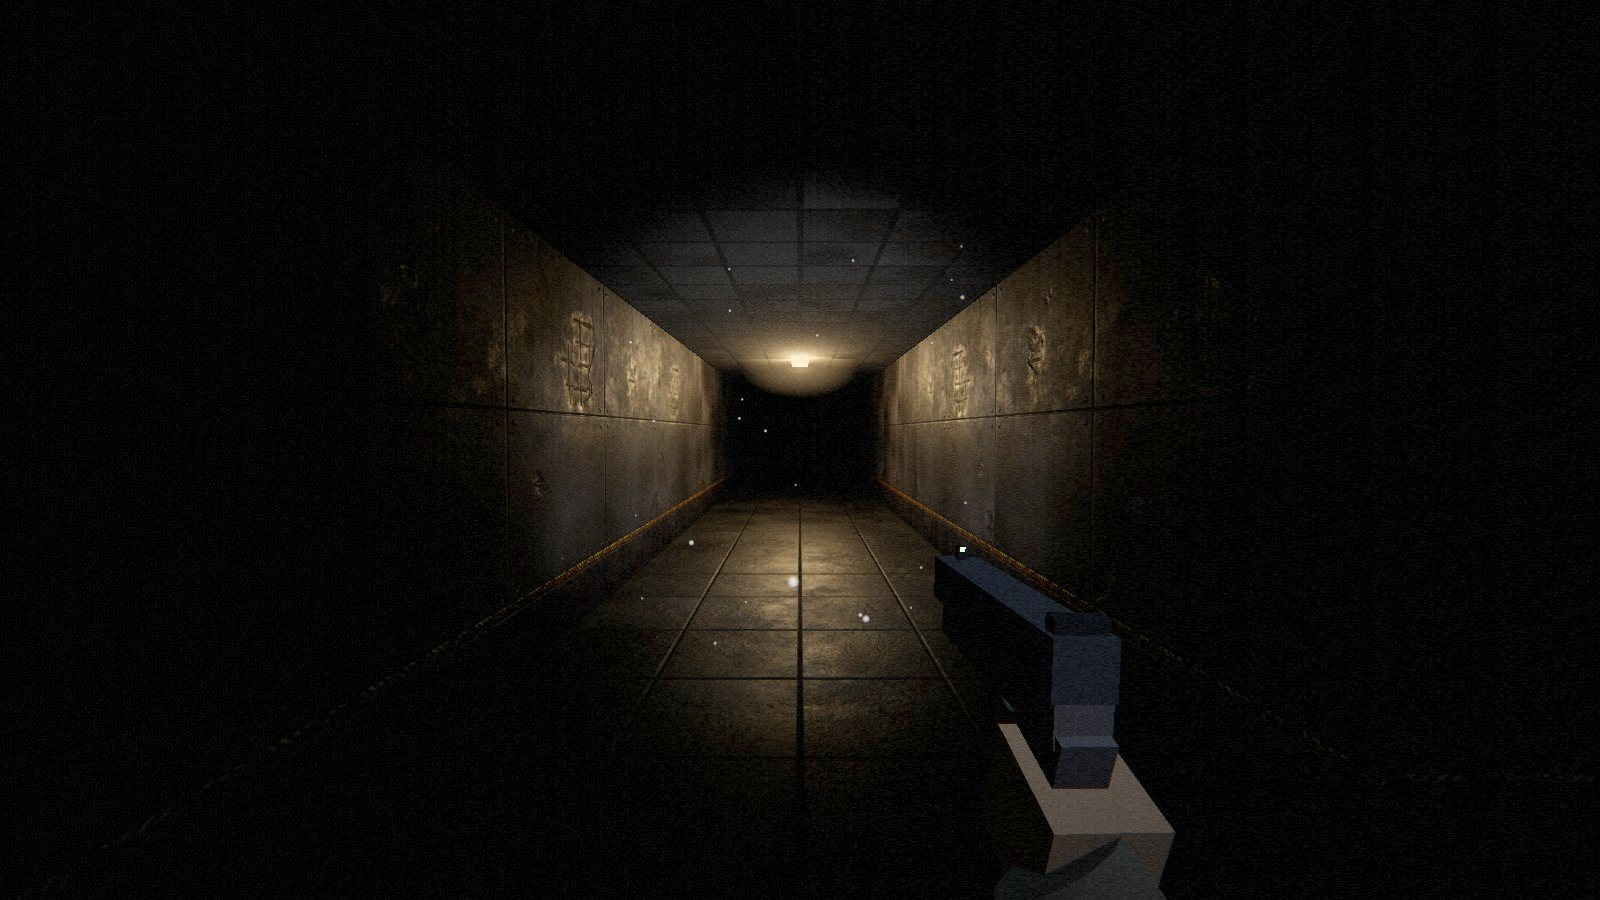
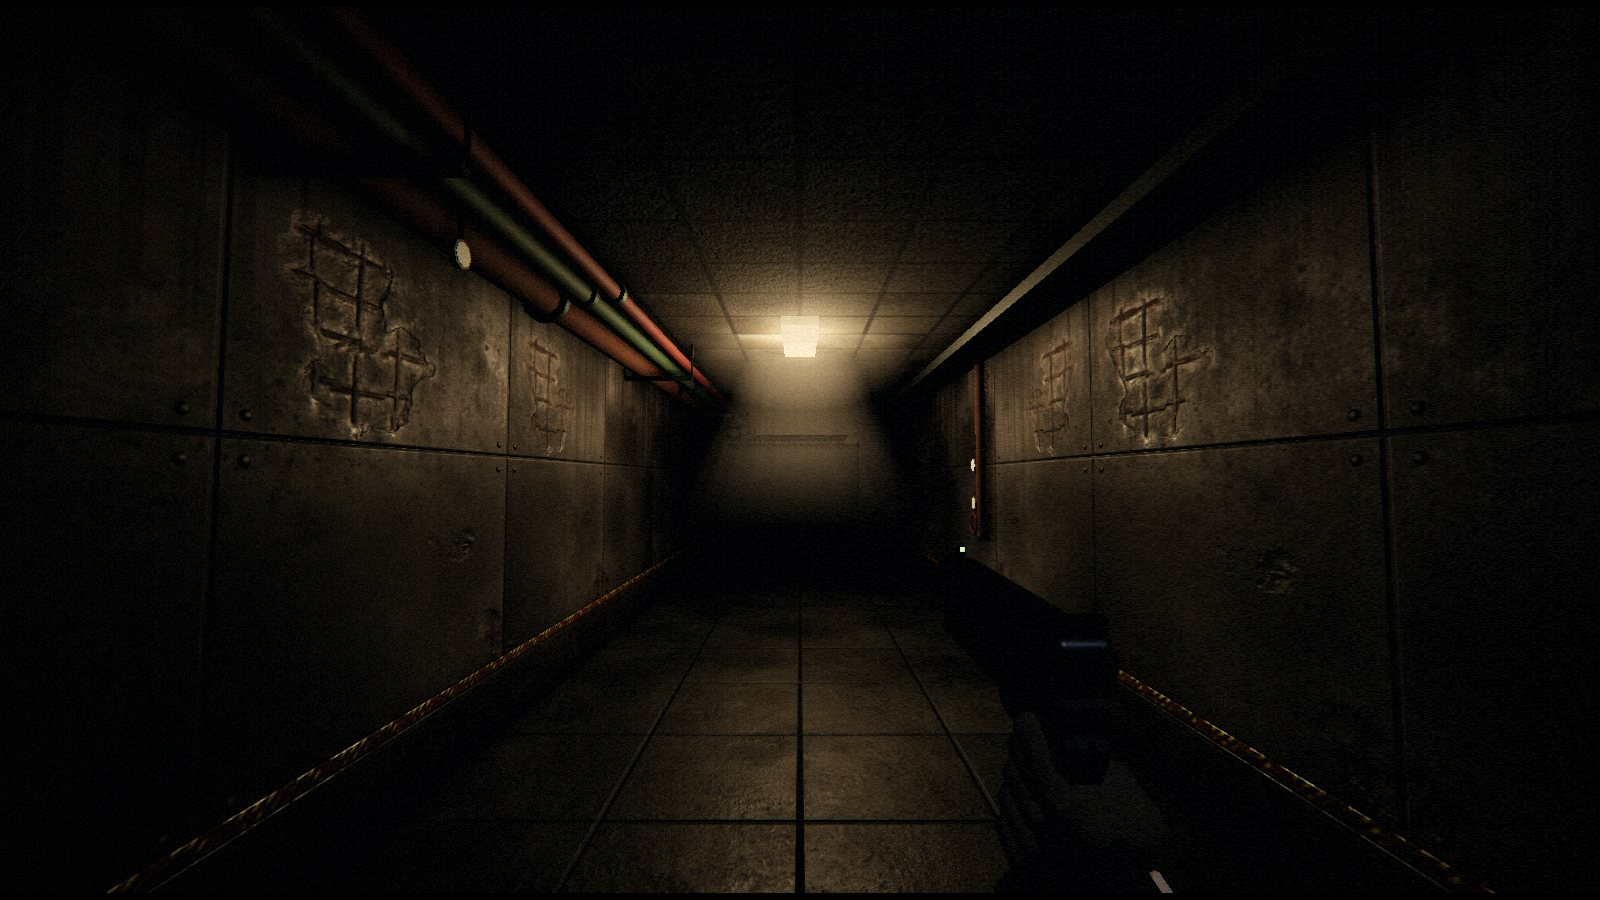
README: rewritten, with the game as it looks now
The feature sections are short paragraphs again, one idea each (the
story, the places, stealth, creatures, a world that reacts, supplies,
co-op), instead of run-on lists. The gallery is all new, taken under the
game's own lighting: lamp light in the haze, a Husk with its shadow, two
story scenes, the Watcher, the Brute, the characters as partners see
them, bullet marks on a wall; plus the journal and co-op lobby in the new
type. The old flat-lit boss, water and infirmary shots are gone. 'A few
details' now covers the generated creatures, the light pool and shadows,
3D sound and room reverb, and the automatic quality.

Also: buttons reset fonts in browsers, so menu buttons showed Cormorant's
old-style figures (the journal tab read 'Journal (з)'); lining figures
there too. A footsteps test no longer depends on a creature's random
patrol.

diff --git a/src/ui/styles.ts b/src/ui/styles.ts
@@ -30,6 +30,8 @@ const CSS = /* css */ `
     linear-gradient(to bottom, #000 0 31%, transparent 31% 63%, #000 63% 100%),
     repeating-linear-gradient(to bottom, rgba(6,6,7,.98) 0 22px, rgba(0,0,0,0) 22px 36px); }
 .slats.show { opacity: 1; }
+/* Browsers reset fonts on form controls: lining figures there too. */
+button, input, output, kbd { font-variant-numeric: lining-nums; }
 .xhair { position: absolute; left: 50%; top: 50%; width: 0; height: 0; transition: opacity .15s; }
 .xhair i { position: absolute; background: rgba(240,236,228,0.85); box-shadow: 0 0 2px rgba(0,0,0,.9); }
 .xhair i.t, .xhair i.b { width: 2px; height: 7px; left: -1px; }

diff --git a/src/enemies/enemy.test.ts b/src/enemies/enemy.test.ts
@@ -69,6 +69,8 @@ describe("footsteps", () => {
     walker.onStep = () => steps++;
     still.onStep = () => quiet++;
     walker.alertTo(cellCenter(9, 2));
+    // Waiting at its post (it would otherwise wander off on patrol).
+    (still as unknown as { patrolWait: number }).patrolWait = 100;
     run(walker, perceive(10, { playerDead: true }), 3);
     run(still, perceive(10, { playerDead: true, playerPos: cellCenter(3, 2) }), 3);
     expect(steps).toBeGreaterThan(4);

diff --git a/README.md b/README.md
@@ -21,32 +21,36 @@ In 1991 the Soviet deep-drilling station Object 9 "Zenit" was sealed and
 forgotten under the Tian Shan mountains. Eleven days ago a mining crew opened
 it again, and the shafts collapsed behind them.
 
-You are one of three survivors of the crew: Nur Kanybekov, a structural
-engineer; Raiymbek Asanov, a drilling foreman; or Nuraiza Akylbek, a field
-geologist. You wake up on the deepest sublevel with a pistol that isn't yours
-and a flashlight that is almost dead. The radio still works, and a calm voice on it offers to guide you to the
-surface, 2.4 km above. The things down there are blind, but they hear
-everything.
+You are one of three survivors: Nur Kanybekov, a structural engineer;
+Raiymbek Asanov, a drilling foreman; or Nuraiza Akylbek, a field geologist.
+You wake on the deepest sublevel with a pistol that isn't yours and a
+flashlight that is almost dead. The radio still works, and a calm voice on it
+offers to guide you to the surface, 2.4 km above. The things down there hear
+everything. Some of them see your light.
 
-I built REMNANT from scratch in TypeScript and Three.js as a way to learn the
-parts of software I don't touch in backend work: real-time rendering, game AI,
-3D audio, networking and performance. There is no game engine underneath, and
-almost everything you see and hear (the creatures, the characters, the music,
-the acoustics of every room) is generated in code; the recorded sounds are
-public-domain field recordings.
+I built REMNANT from scratch in TypeScript and Three.js to learn the parts of
+software I don't touch in backend work: real-time rendering, game AI, 3D
+audio, networking and performance. There is no game engine underneath.
+The creatures, the characters, the levels, the music and the acoustics of
+every room are generated in code; the recorded sounds and surface textures
+are public-domain.
 
 <table>
   <tr>
-    <td width="50%"><img src="docs/screenshots/corridor.jpg" alt="A lamp-lit corridor in the maintenance wing"></td>
-    <td width="50%"><img src="docs/screenshots/creature.jpg" alt="A Brute in the armory, caught in the flashlight"></td>
+    <td width="50%"><img src="docs/screenshots/corridor.jpg" alt="Lamp light falling through the haze in a maintenance corridor"></td>
+    <td width="50%"><img src="docs/screenshots/husk.jpg" alt="A Husk caught in the flashlight, its shadow on the wall behind it"></td>
   </tr>
   <tr>
-    <td><img src="docs/screenshots/characters.jpg" alt="Nur, Raiymbek and Nuraiza, the three playable characters"></td>
-    <td><img src="docs/screenshots/boss.jpg" alt="The Remnant, the boss of Sublevel 2"></td>
+    <td><img src="docs/screenshots/story-radio.jpg" alt="Ward 1: the crew's chairs in a circle round a radio that is still on"></td>
+    <td><img src="docs/screenshots/story-r7.jpg" alt="Sample R-7's cell in the containment labs, broken from the inside"></td>
   </tr>
   <tr>
-    <td><img src="docs/screenshots/water.jpg" alt="The flooded pumping station"></td>
-    <td><img src="docs/screenshots/infirmary.jpg" alt="A ward in the infirmary"></td>
+    <td><img src="docs/screenshots/watcher.jpg" alt="A Watcher, the tall one that freezes in your light"></td>
+    <td><img src="docs/screenshots/creature.jpg" alt="A Brute in the dark"></td>
+  </tr>
+  <tr>
+    <td><img src="docs/screenshots/characters.jpg" alt="Nur, Raiymbek and Nuraiza with their name tags, as co-op partners see them"></td>
+    <td><img src="docs/screenshots/impacts.jpg" alt="Bullet holes and dust left on a wall"></td>
   </tr>
 </table>
 
@@ -62,40 +66,44 @@ public-domain field recordings.
 
 ## What's in the game
 
-**The campaign.** Ten hand-built levels, from the deepest sublevel up to the
-surface, with a story told over the radio, notes left by the people who were
-there before you, a three-phase boss and two endings. Every note answers a
-question the last one raised: why the station was sealed, who the voice on
-the radio really is, and what is waiting at the top, so the story comes
-together as you climb, and where each note was left, the place shows what it
-says: the bed you slept through it in, the radio with its plug pulled; R-7's
-cell, broken from the inside. The rooms have a purpose (wards, labs, freezers,
-pump halls, an armory with its racks nearly empty) and are furnished to
-match, with signs by their doors. Pipes painted to the Soviet colour code
-run the length of the corridors, frosted and hung with icicles in cold
-storage, and what the crew scrawled on the walls is still there. Every level
-hides a room behind a loose wall panel.
+**A story you piece together.** Ten hand-built levels climb from the deepest
+sublevel to the surface, ending in a three-phase boss and a choice between
+two endings. The story comes over the radio and through notes left by the
+people who were there before you, and each note answers a question the last
+one raised: why the station was sealed, who the voice on the radio really is,
+and what is waiting at the top. Where a note was left, the place shows what
+it says: the bed you slept through it all in, the radio with its plug pulled
+out, R-7's cell broken from the inside.
 
-**Stealth that matters.** The creatures are blind, but they hear everything.
-Every step makes noise, sprinting and wading make more, and a creature right
-beside you can hear you breathe, so you hold your breath while it walks past.
-Every level has lockers to hide in: inside, you watch through the slats
-while it searches. Anything that saw you climb in knows where you are.
-Your flashlight is the other half of it: turn it on in the dark and anything
-that sees the light comes for you straight away. A thrown bottle sends them
-somewhere else. Every shot leaves its mark: holes and chips of concrete that
-stay, dust hanging in the beam, blood on the wall behind what you hit, and
-a lamp shot out stays dark, and loud.
+**Places that were used.** Every room has a purpose (wards, labs, freezers,
+pump halls, an armory with its racks nearly empty) and is furnished to
+match, with a sign by its door. Pipes painted to the Soviet colour code run
+the length of the corridors, frosted and hung with icicles in cold storage.
+What the crew scrawled on the walls is still there, and every level hides a
+room behind a loose wall panel.
+
+**Stealth that matters.** Every step makes noise, sprinting and wading make
+more, and a creature right beside you can hear you breathe, so you hold your
+breath while it walks past. Turn your flashlight on in the dark and anything
+that sees it comes for you. Lockers let you hide and watch through the slats
+while something searches the room, but one that saw you climb in knows where
+you are. A thrown bottle sends them somewhere else.
 
 **Creatures that hunt.** Nine kinds, each designed to break a habit the
 previous one taught you: one that only hears, one that freezes in your light,
-one that waits on the ceiling, one that imitates the voice on the radio. Some
-of them wander the whole level, and every so often one is drawn towards
-wherever you are, so nowhere stays safe for long. They are dark and hard
-to pick out until they are close, and their eyes only catch your light at
-short range. You hear them before you see them: bare feet on concrete, in 3D
-on headphones, through the wall. Lamps stutter when one is near, and your heart beats faster
-when something is close that you can't see.
+one that waits on the ceiling, one that imitates the voice on the radio.
+Some wander the whole level, and every so often one is drawn towards
+wherever you are, so nowhere stays safe for long. You usually hear them
+first: bare feet on concrete, placed in 3D on headphones, muffled through the
+wall. Lamps stutter when one is near, and your heart beats faster when
+something is close that you can't see.
+
+**A world that reacts.** The flashlight throws real shadows, and a creature
+in your beam throws its own up the wall behind it. Every shot leaves a hole,
+chips of concrete and dust hanging in the light; blood stays on the wall
+behind what you hit; a lamp shot out stays dark, and the crash brings
+company. A gunshot is swallowed by a vent and rolls on and on in the pump
+hall, because each room's echo follows its size.
 
 **Scarce supplies.** Three weapons, silent takedowns from behind, and
 medkits you carry and use when you choose. Ammunition comes in small caches
@@ -103,16 +111,16 @@ spread across each level, so you find it by exploring.
 
 **Together.** Online co-op for two or three players with a room code, and
 voice chat that comes from where each player stands. Each character has
-their own helmet colour and reflective tape, and a name tag floats above
-every partner, so you can find each other in the dark. No accounts, no
+their own helmet colour, reflective tape and a name tag, and their torch
+shows as a beam, so you can find each other in the dark. No accounts, no
 installs.
 
 **And the rest.** Three characters to play as (the radio and the notes call
 you by your own name), five difficulty modes, an inventory with a journal of
 every note you've found, cloud saves with Google sign-in, an online
-leaderboard of best times, a brightness screen on first launch, graphics that
-step down by themselves if a laptop struggles, full gamepad support, rebindable controls and
-accessibility options.
+leaderboard of best times, a brightness screen on first launch, graphics
+that step down by themselves if a laptop struggles, full gamepad support,
+rebindable controls and accessibility options.
 
 ## How to play
 
@@ -380,23 +388,33 @@ two different builds refuse to connect instead of drifting apart.
 
 ### A few details I'm happy with
 
-- Changing the number of lights in Three.js recompiles shaders and causes a
-  stutter, so the level uses a fixed pool of lights that is reassigned to the
-  lamps nearest the player every frame. Co-op partners' headlamps exist from
-  the start of a level for the same reason.
-- On a guest's screen, creatures keep moving between the host's snapshots
-  at their last known speed, and a snapshot that arrives late is thrown away,
-  so a slow network doesn't make them stall or jump back.
-- With three players the host forwards one guest's voice to the other over
-  the same peer-to-peer connection, so voice chat needs no server.
-- One text grid drives the level geometry, collision, line of sight, bullet
-  raycasts and pathfinding.
-- Every level is checked by a validator that fails the build if an exit,
-  keycard or generator can't be reached.
-- Extra creatures, ammunition caches and bottles are placed by seeded
-  algorithms, so every co-op player gets exactly the same level.
-- Saves are versioned and validated field by field. Old saves are migrated,
-  broken values are repaired, and the game still runs if storage is blocked.
+- **Creatures are grown, not modelled.** Each body part is a lathe of a
+  profile or a welded sphere pushed out of shape by 3D noise, so limbs are
+  knotted at the joints and wasted between them, ribs and spine push through
+  a starved torso, and no two creatures of a kind are quite the same.
+- **Light without a light budget.** Changing the number of lights in Three.js
+  recompiles shaders and stutters, so the level uses a fixed pool of lights
+  handed to the lamps nearest you every frame. Only the flashlight casts
+  shadows; the lamps' light cones in the dust are faked with one additive
+  cone each.
+- **Sound you can place.** Everything is panned in 3D (HRTF), and two
+  generated reverbs, a tight duct and a big concrete hall, are crossfaded by
+  how open the space around you is, measured with eight rays twice a second.
+- **It looks after itself.** The game watches its own frame rate and steps
+  the graphics down if a laptop can't keep up, rather than stutter.
+- **One text grid** drives the level geometry, collision, line of sight,
+  bullet raycasts, pathfinding, set dressing and the story scenes. Every
+  level is checked by a validator that fails the build if an exit, keycard
+  or generator can't be reached.
+- **Co-op that survives real networks.** On a guest's screen creatures keep
+  moving between the host's snapshots at their last known speed and late
+  snapshots are thrown away; with three players the host forwards one
+  guest's voice to the other over the same peer-to-peer connection, so voice
+  chat needs no server. Everything random is seeded, so every player gets
+  exactly the same level.
+- **Saves are versioned and validated field by field.** Old saves are
+  migrated, broken values are repaired, and the game still runs if storage
+  is blocked.
 
 ### Project layout
 
@@ -405,13 +423,14 @@ src/
   game/      app shell, level session, co-op partner, saves
   net/       matchmaking, WebRTC link, relay, voice, cloud saves, leaderboard
   content/   creatures, weapons, items, difficulty, characters
-  world/     level format, parser, validator, builder, grid, pathfinding
+  world/     level format, parser, validator, builder, grid, pathfinding,
+             set dressing, story scenes
   enemies/   AI, creature bodies, boss, projectiles
   items/     pickups, thrown bottles
   player/    input commands, movement, breathing, flashlight, health
   weapons/   weapon logic, first-person models
-  core/      renderer, input, gamepad, settings
-  fx/        textures, particles
+  core/      renderer, shadows, quality presets and guard, input, settings
+  fx/        textures, particles, light beams
   audio/     sound engine, samples, adaptive music
   ui/        HUD, menus, inventory
 ```
